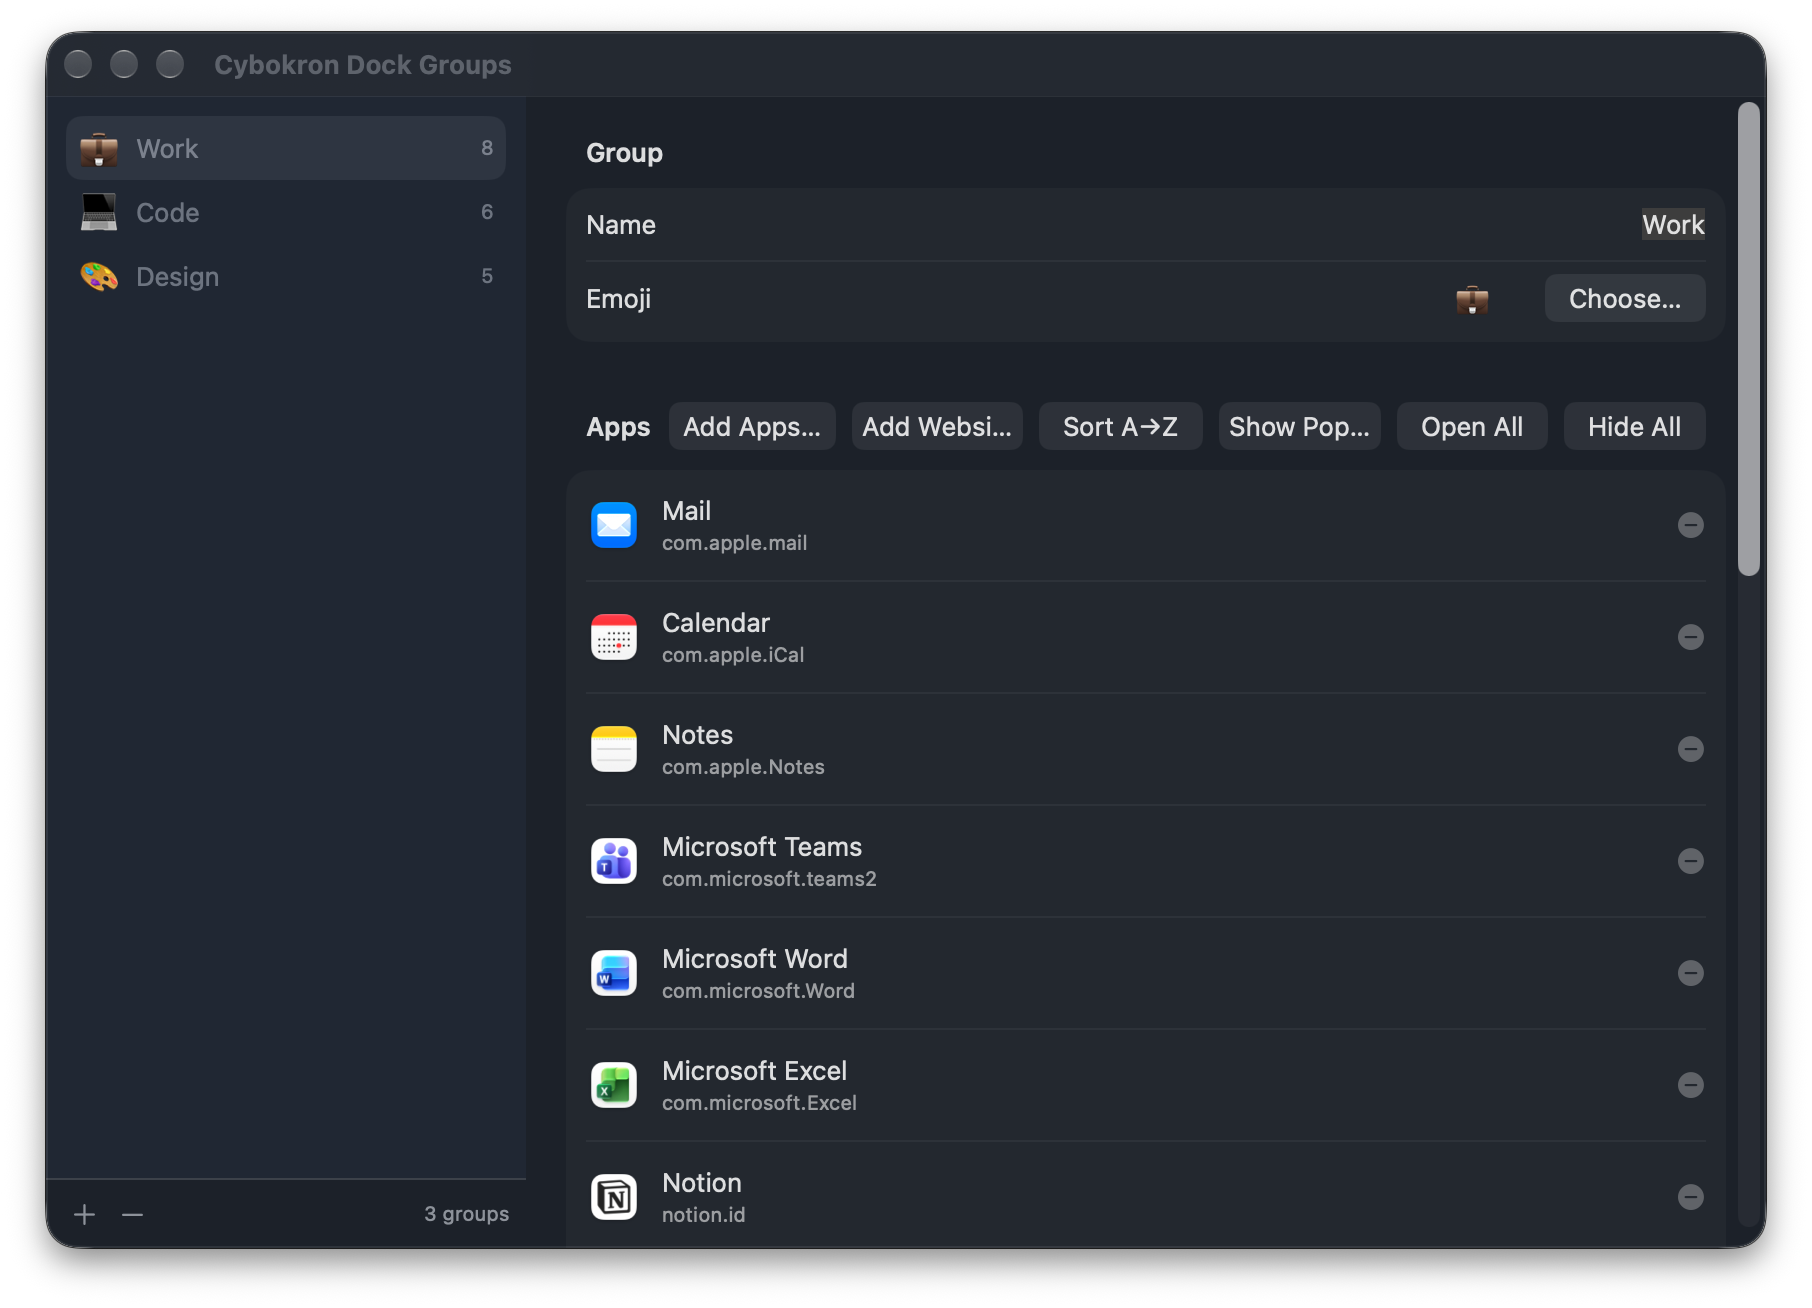
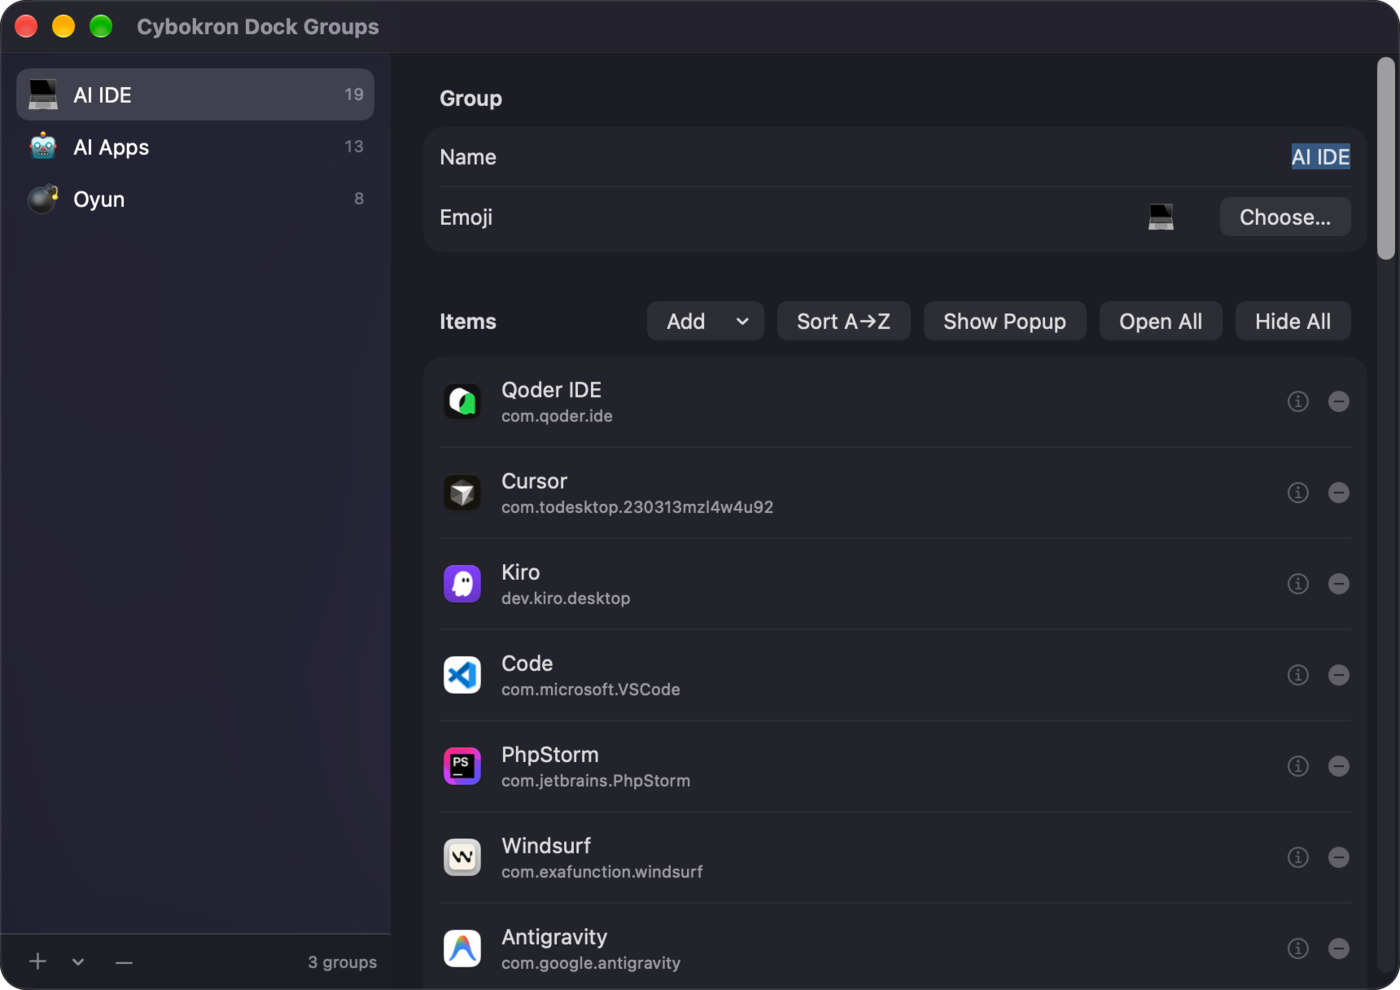
docs: update README screenshots to v0.11 (#8)
README screenshots updated to v0.11 (9 new/replaced, 2 kept and marked
v0.5.6); docs/screenshots/README.md describes each. Docs only.

🤖 Generated with [Claude Code](https://claude.com/claude-code)

https://claude.ai/code/session_013KhETPTQKEJ8KEC256bdAf

diff --git a/README.md b/README.md
@@ -9,15 +9,27 @@ group from the menu bar to see its apps in a popup over the Dock, or open them a
 
 <table>
   <tr>
-    <td align="center"><img src="docs/screenshots/popup-panel.png" width="380" alt="Group popup over the Dock with Open All, Hide All and Close All, and a website next to the apps"><br><sub>Group popup with apps and a website</sub></td>
-    <td align="center"><img src="docs/screenshots/popup-filter.png" width="380" alt="Group popup filtered by typing “mic”"><br><sub>Type to filter, Return to open</sub></td>
+    <td align="center" colspan="2"><img src="docs/screenshots/groups-window.png" width="700" alt="Group window: the AI IDE group's apps with Add, Sort A→Z, Show Popup, Open All and Hide All"><br><sub>Group window: your groups, their items and quick actions</sub></td>
   </tr>
   <tr>
-    <td align="center" colspan="2"><img src="docs/screenshots/groups-window.png" width="640" alt="Group management window with Add Website, Sort A→Z and Hide All"><br><sub>Group management window</sub></td>
+    <td align="center"><img src="docs/screenshots/popup-panel.png" width="400" alt="Group popup with 13 apps, a dot under each running app, and Open All, Hide All and Force Quit"><br><sub>The popup: open, hide or quit a whole group</sub></td>
+    <td align="center"><img src="docs/screenshots/settings-triggers.png" width="380" alt="Settings → Triggers: Open at Login, trigger status with Pause, and Location access"><br><sub>Settings → Triggers</sub></td>
   </tr>
   <tr>
-    <td align="center"><img src="docs/screenshots/settings.png" width="360" alt="Settings → Updates with Check Now and Other Versions"><br><sub>Settings → Updates, with Other Versions…</sub></td>
-    <td align="center"><img src="docs/screenshots/about.png" width="300" alt="About window with social profiles, support links and books"><br><sub>About</sub></td>
+    <td align="center"><img src="docs/screenshots/group-switching-triggers.png" width="400" alt="A group's Start and Finish settings, its keyboard shortcut and its triggers"><br><sub>Per group: Start and Finish, its own shortcut and triggers</sub></td>
+    <td align="center"><img src="docs/screenshots/group-dock-tile.png" width="380" alt="A group's Dock tile preview, standalone Dock icon and popup settings"><br><sub>Dock tile, standalone icon and popup layout</sub></td>
+  </tr>
+  <tr>
+    <td align="center"><img src="docs/screenshots/settings-switching.png" width="380" alt="Settings → Switching: protected apps, Start and Finish, and Focus"><br><sub>Settings → Switching</sub></td>
+    <td align="center"><img src="docs/screenshots/settings-shortcuts.png" width="380" alt="Settings → Shortcuts &amp; Siri: ⌃⌥1 to ⌃⌥9 and the groups they open"><br><sub>Settings → Shortcuts &amp; Siri</sub></td>
+  </tr>
+  <tr>
+    <td align="center"><img src="docs/screenshots/settings-updates.png" width="380" alt="Settings → Updates with automatic checks, the current version and Check Now"><br><sub>Settings → Updates</sub></td>
+    <td align="center"><img src="docs/screenshots/settings-other-versions.png" width="380" alt="Other Versions: published releases, each with an Install button"><br><sub>Other Versions…: install any published release</sub></td>
+  </tr>
+  <tr>
+    <td align="center"><img src="docs/screenshots/popup-filter.png" width="380" alt="Group popup filtered by typing “mic”"><br><sub>Type to filter, Return to open (v0.5.6)</sub></td>
+    <td align="center"><img src="docs/screenshots/about.png" width="300" alt="About window with social profiles, support links and books"><br><sub>About (v0.5.6)</sub></td>
   </tr>
 </table>
 

diff --git a/docs/screenshots/README.md b/docs/screenshots/README.md
@@ -1,9 +1,15 @@
 # Screenshots
 
-Taken from v0.5.6 with a demo set of groups (Work, Code, Design).
+Taken from v0.11.0 (dark appearance), cropped to the window with transparent rounded corners, except the two marked v0.5.6.
 
-- `popup-panel.png` — The group popup over the Dock: apps and a website, Open All, Hide All, Close All and A→Z.
-- `popup-filter.png` — The popup filtered by typing “mic”; Return opens the selected app.
-- `groups-window.png` — The group management window: Add Apps, Add Website, Sort A→Z, Show Popup, Open All, Hide All.
-- `settings.png` — Settings → Updates with Check Now and Other Versions….
-- `about.png` — The About window with social profiles, support links, the app's version and links, and books.
+- `groups-window.png` — The group window: the groups in the sidebar, a group's name, emoji and items, with Add, Sort A→Z, Show Popup, Open All and Hide All.
+- `popup-panel.png` — The group popup: apps with a dot under each running one, Open All, Hide All and Force Quit, and the Close All modifier hint.
+- `group-switching-triggers.png` — A group's settings: Start and Finish, Keyboard Shortcut and Triggers.
+- `group-dock-tile.png` — A group's settings: Dock Tile preview and options, Standalone and Popup overrides.
+- `settings-triggers.png` — Settings → Triggers: Open at Login, Status with Pause, Location Access, All Triggers.
+- `settings-switching.png` — Settings → Switching: Protected Apps, Start and Finish, Focus.
+- `settings-shortcuts.png` — Settings → Shortcuts & Siri: ⌃⌥1…9, assigned groups, group shortcuts.
+- `settings-updates.png` — Settings → Updates: automatic checks, current version, Check Now, Other Versions….
+- `settings-other-versions.png` — Other Versions…: the published releases with Install.
+- `popup-filter.png` — (v0.5.6) The popup filtered by typing “mic”; Return opens the selected app.
+- `about.png` — (v0.5.6) The About window with social profiles, support links, the app's version and links, and books.
